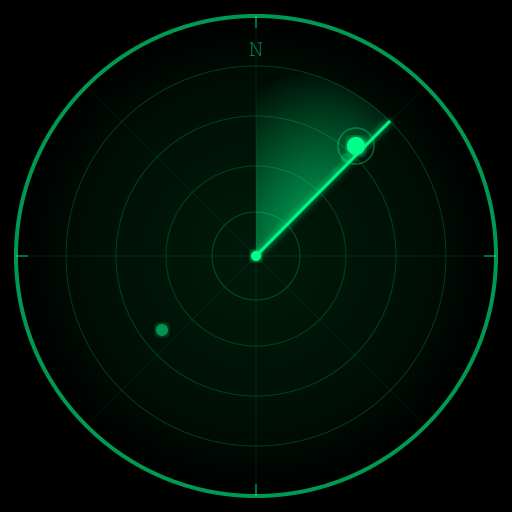
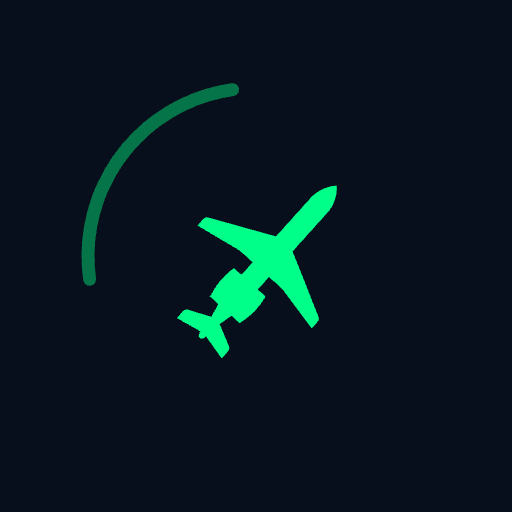
Odsiew samolotów szkolnych, nowa ikona PWA
PZ3T (PZL-130 Orlik z Dęblina) potrafi siedzieć na radarze cały dzień, robiąc
kręgi nad Radomiem. To jedyna rzecz odsiewana dlatego, że jest NUDNA, a nie
dlatego, że jest błędna, więc dostaje jawną listę zamiast reguły: obok Orlika
Grob G115, Pilatus PC-21/PC-9, Diamond DA40/DA42, T-6 Texan II i G120.

Świadomie NIE odrzucone: M-346 Bielik, TS-11 Iskra, L-39, Hawk, T-38. Latają
zadaniowo, nie w kręgu, i ich pojawienie się nad Polską jest informacją.

Bramka stoi przed regułami hex/callsign, więc Orlik z wojskowym znakiem
wywoławczym też nie wraca na mapę. Ta sama bramka na wszystkich trzech
ścieżkach: podgląd na żywo, feed dla powiadomień i cron zbierający trasy.

Ikona: stara była zdjęciem zielonego oczka radaru — tak wygląda co drugi
tracker i nie mówiła nic o tej aplikacji. Nowa składa się z rzeczy, które ta
aplikacja naprawdę rysuje: glifu odrzutowca o nieustalonym typie (ten sam
kształt, co na mapie) i ćwiartki okręgu zasięgu. Sprawdzona na 180, 60 i 40 px
— wariant ze śladem przelotu odpadł, bo przy 40 px zrastał się z kadłubem w
sztylet.

Naprawione przy okazji:
- maskable dostaje WŁASNY plik z zapasem przy krawędziach; wcześniej ta sama
  grafika była zgłaszana jako 'any maskable' i Android przycinał ją do koła
  razem z treścią sięgającą brzegu
- meta mobile-web-app-capable obok przestarzałego wariantu 'apple-', który
  sypał ostrzeżeniem w konsoli przy każdym wejściu
- ekran startowy w index.html dostaje stos czcionek aplikacji, więc pierwsza
[…]

diff --git a/netlify/functions/lib/military.js b/netlify/functions/lib/military.js
@@ -28,6 +28,29 @@ const CIVILIAN_CALLSIGN_PATTERNS = [
   /^AFR/i, /^IBE/i, /^EZY/i, /^TRA/i, /^KLM/i,
 ]
 
+// ── Samoloty szkolne ──────────────────────────────────────────────────────
+// Maszyny treningowe latają w kółko nad własnym lotniskiem po kilka godzin
+// dziennie i zapychają radar zdarzeniami, które nic nie znaczą: PZL-130 Orlik
+// z Dęblina potrafi siedzieć na mapie cały dzień, robiąc kręgi nad Radomiem.
+// To jedyna rzecz w tej aplikacji odsiewana dlatego, że jest NUDNA, a nie
+// dlatego, że jest błędna — stąd osobna, jawna lista zamiast reguły.
+//
+// Świadomie NIE są tu odrzucone szkolno-bojowe: M-346 Bielik, TS-11 Iskra,
+// L-39 Albatros, Hawk, T-38 Talon. Latają zadaniowo, nie w kręgu, i ich pojawienie
+// się nad Polską jest informacją.
+const TRAINING_TYPES = new Set([
+  'PZ3T',          // PZL-130 Orlik — Dęblin / Radom
+  'G115',          // Grob G115 Tutor — brytyjskie loty zapoznawcze
+  'PC21', 'PC9',   // Pilatus PC-21 / PC-9
+  'DA40', 'DA42',  // Diamond — szkolenie podstawowe i nawigacyjne
+  'T6',            // Beechcraft T-6 Texan II
+  'SF26', 'G120',  // Grob G120TP i szybowce szkolne
+])
+
+export function isTrainingAircraft(type) {
+  return TRAINING_TYPES.has(normType(type))
+}
+
 const GROUND_STATION_PATTERNS = [/XCAM/i, /XCAT/i, /XBAT/i]
 export const GROUND_STATION_TYPES = new Set(['TWR', 'GND', 'MLAT', 'RADAR'])
 const MILITARY_SQUAWKS = new Set(['7777', '7400'])
@@ -111,6 +134,7 @@ export function isSuspiciousHex(hex) {
 }
 
 export function isMilitaryADSBfiRecord(a) {
+  if (isTrainingAircraft(a.t)) return false
   const hex = (a.hex || '').toLowerCase()
   const callsign = (a.flight || '').trim()
   const squawk = a.squawk || ''
@@ -212,7 +236,7 @@ export async function fetchMilitaryNear(lat, lon, radiusKm) {
     const milData = await milRes.json()
 
     const milAircraft = (milData.ac || milData.aircraft || [])
-      .filter(a => isValidADSBfi(a) &&
+      .filter(a => isValidADSBfi(a) && !isTrainingAircraft(a.t) &&
         a.lat >= lamin && a.lat <= lamax &&
         a.lon >= lomin && a.lon <= lomax)
     milAircraft.forEach(a => { a._kind = 'mil' })

diff --git a/test/military.test.js b/test/military.test.js
@@ -2,6 +2,7 @@ import { describe, it, expect } from 'vitest'
 import {
   classifyADSBfi,
   isSuspiciousHex,
+  isTrainingAircraft,
   isMilitaryADSBfiRecord,
   classifyExtra,
   isMilitaryState,
@@ -142,5 +143,34 @@ describe('normalizeKinds', () => {
   it('potrafi wyłączyć wszystko naraz', () => {
     expect(normalizeKinds({ mil: false, heli: false, heavy: false }))
       .toEqual({ mil: false, heli: false, heavy: false })
+  })
+})
+
+describe('isTrainingAircraft', () => {
+  it('odsiewa maszyny latające w kółko nad własnym lotniskiem', () => {
+    // PZ3T to PZL-130 Orlik z Dęblina — potrafi siedzieć na mapie cały dzień,
+    // robiąc kręgi nad Radomiem, i zapycha radar zdarzeniami bez znaczenia.
+    expect(isTrainingAircraft('PZ3T')).toBe(true)
+    expect(isTrainingAircraft('G115')).toBe(true)
+    expect(isTrainingAircraft('PC21')).toBe(true)
+    expect(isTrainingAircraft('DA40')).toBe(true)
+  })
+
+  it('zostawia szkolno-bojowe, bo te latają zadaniowo', () => {
+    for (const t of ['M346', 'TS11', 'L39', 'HAWK', 'T38']) {
+      expect(isTrainingAircraft(t), t).toBe(false)
+    }
+  })
+
+  it('nie wywraca się na braku typu', () => {
+    expect(isTrainingAircraft('')).toBe(false)
+    expect(isTrainingAircraft(null)).toBe(false)
+    expect(isTrainingAircraft(undefined)).toBe(false)
+  })
+
+  it('Orlik nie przechodzi klasyfikacji nawet z wojskowym callsignem', () => {
+    // Bramka musi stać PRZED regułami hex/callsign, inaczej PLF na Orliku
+    // przepuściłby go z powrotem na radar.
+    expect(classifyADSBfi({ hex: '48d911', flight: 'PLF12', t: 'PZ3T' })).toBeNull()
   })
 })

diff --git a/index.html b/index.html
@@ -12,6 +12,10 @@
          nieprzezroczystego status baru, przez co env(safe-area-inset-top) ≈ 0 i
          cała obsługa notcha (paddingi safe-area) nic by nie robiła. -->
     <meta name="apple-mobile-web-app-capable" content="yes" />
+    <!-- Standardowy odpowiednik powyższego. Chrome od dawna zgłasza wariant
+         'apple-' jako przestarzały; bez tej linii konsola sypie ostrzeżeniem
+         przy każdym wejściu. -->
+    <meta name="mobile-web-app-capable" content="yes" />
     <meta name="apple-mobile-web-app-status-bar-style" content="black-translucent" />
     <meta name="apple-mobile-web-app-title" content="Radar PL" />
 
@@ -40,7 +44,9 @@
          the CSS bundle is parsed. Avoids LCP-counting against us during
          a brief flash. */
       html, body, #root { margin: 0; height: 100%; background: #040a14; }
-      body { color: #ccd; font-family: 'Courier New', monospace; -webkit-text-size-adjust: 100%; }
+      /* Ten sam stos, co po doczytaniu arkusza — inaczej pierwszy klatkę
+         widać Courierem, a potem tekst przeskakuje. */
+      body { color: #ccd; font-family: 'Barlow Semi Condensed', 'Roboto Condensed', 'Helvetica Neue', system-ui, sans-serif; -webkit-text-size-adjust: 100%; }
       .boot-splash { position: fixed; inset: 0; display: flex; align-items: center; justify-content: center; color: rgba(255,255,255,0.45); font-size: 12px; letter-spacing: 2px; }
     </style>
   </head>

diff --git a/vite.config.js b/vite.config.js
@@ -29,9 +29,13 @@ export default defineConfig({
         background_color: '#080f1c',
         display: 'standalone',
         orientation: 'any',
+        // `maskable` dostaje WŁASNY plik z zapasem przy krawędziach. Wcześniej
+        // ta sama grafika była zgłaszana jako 'any maskable', więc Android
+        // przycinał ją do koła razem z treścią sięgającą brzegu.
         icons: [
-          { src: 'pwa-192x192.png', sizes: '192x192', type: 'image/png' },
-          { src: 'pwa-512x512.png', sizes: '512x512', type: 'image/png', purpose: 'any maskable' }
+          { src: 'pwa-192x192.png', sizes: '192x192', type: 'image/png', purpose: 'any' },
+          { src: 'pwa-512x512.png', sizes: '512x512', type: 'image/png', purpose: 'any' },
+          { src: 'pwa-512x512-maskable.png', sizes: '512x512', type: 'image/png', purpose: 'maskable' }
         ]
       },
       workbox: {

diff --git a/netlify/functions/collect.js b/netlify/functions/collect.js
@@ -1,6 +1,6 @@
 import { getStore, connectLambda } from '@netlify/blobs'
 import { saveTrails } from './aircraft.js'
-import { classifyADSBfi, isSuspiciousHex } from './lib/military.js'
+import { classifyADSBfi, isSuspiciousHex, isTrainingAircraft } from './lib/military.js'
 
 // Szeroki bounding box pokrywający Europę + zachodnia Rosja + bliski wschód
 // (lat 30°-72°, lon -15°-50°). adsb.fi /mil zwraca globalnie, więc i tak
@@ -33,6 +33,8 @@ function isValidRecord(a) {
   // Ten sam filtr, co na ścieżce live (aircraft.js). Bez niego cron zapisywał
   // trasy maszyn-widm, których aplikacja i tak nigdy nie pokaże.
   if (isSuspiciousHex(a.hex)) return false
+  // Samoloty szkolne nie trafiają na radar, więc nie ma po co zbierać ich tras.
+  if (isTrainingAircraft(a.t)) return false
   return true
 }
 

diff --git a/netlify/functions/aircraft.js b/netlify/functions/aircraft.js
@@ -12,6 +12,7 @@ import { snapshotKey } from './lib/snapshot.js'
 import { isInPoland } from './lib/poland.js'
 import {
   isSuspiciousHex,
+  isTrainingAircraft,
   classifyExtra,
   isMilitaryADSBfiRecord,
   isMilitaryState,
@@ -195,7 +196,8 @@ async function tryADSBfi(lamin, lomin, lamax, lomax) {
     if (!milRes.ok) return null
     const milData = await milRes.json()
     const milAircraft = (milData.ac || []).filter(a =>
-      isADSBfiRecordInBox(a, lamin, lomin, lamax, lomax) && passesTypeNoise(a))
+      isADSBfiRecordInBox(a, lamin, lomin, lamax, lomax) && passesTypeNoise(a) &&
+      !isTrainingAircraft(a.t))
     milAircraft.forEach(a => { a._kind = 'mil' })
     const milHexes = new Set(milAircraft.map(a => a.hex))
 
